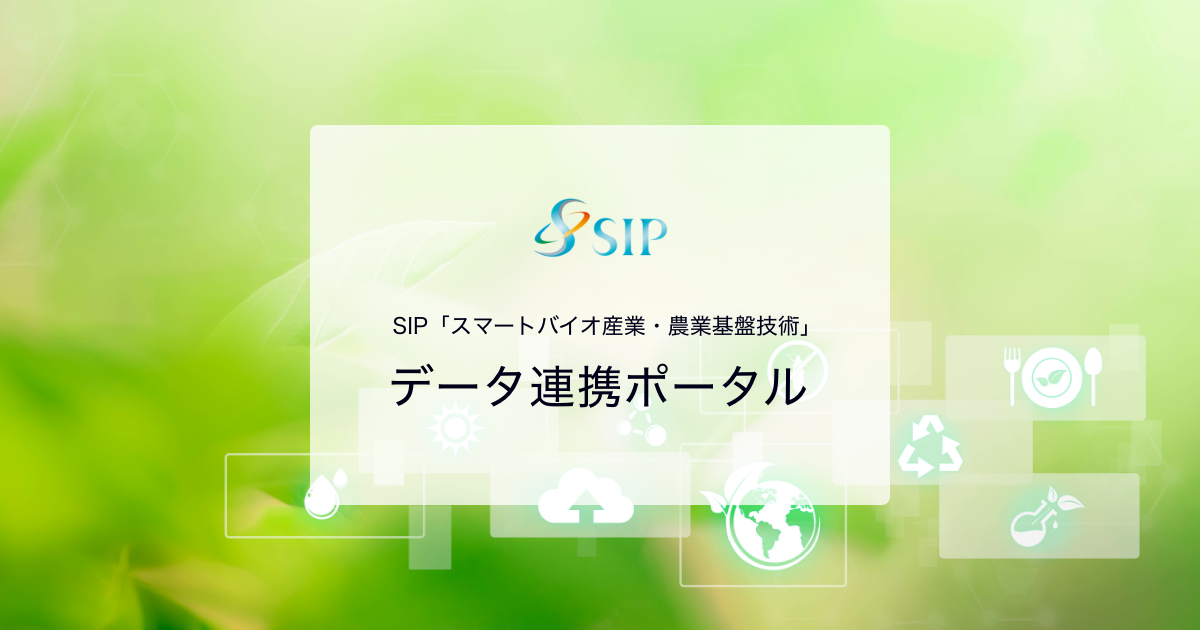
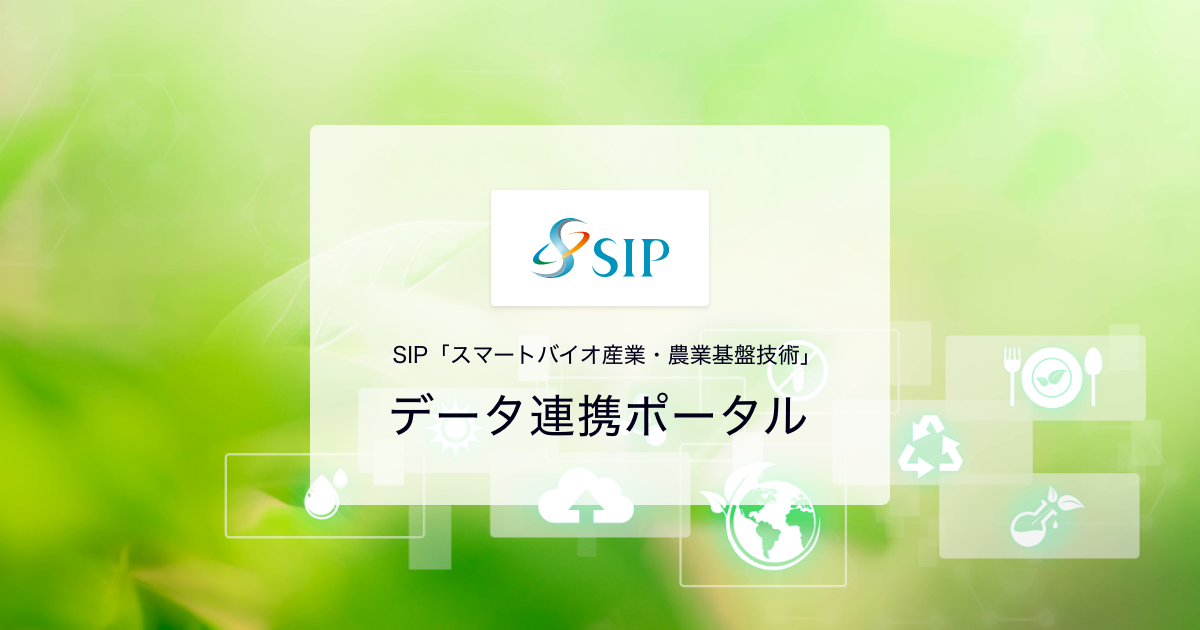
SIPロゴ画像を白背景にして差し替え

Changed region(s): [[0.3083, 0.3016, 0.6783, 0.6937]]

diff --git a/src/components/Footer/Footer.tsx b/src/components/Footer/Footer.tsx
@@ -2,7 +2,7 @@ import { css } from '@emotion/react'
 import Image from 'next/image'
 import Link from 'next/link'
 
-import logoPic from '../../../public/logo.png'
+import logoImg from '../../../public/logo.png'
 
 const footerStyle = css`
   background: var(--col-bk);
@@ -13,10 +13,14 @@ const footerLogoStyle = css`
   max-width: var(--inn1000);
   margin: 0 auto;
   display: flex;
-  align-items: flex-end;
+  align-items: center;
   @media (max-width: 680px) {
     align-items: flex-start;
   }
+`
+
+const logoStyle = css`
+  flex: 0 1 auto;
 `
 
 const titleStyle = css`
@@ -50,7 +54,9 @@ const Footer = () => {
   return (
     <footer css={footerStyle}>
       <div css={footerLogoStyle}>
-        <Image src={logoPic} alt="SIP" />
+        <div css={logoStyle}>
+          <Image src={logoImg} alt="SIP" />
+        </div>
         <div css={titleStyle}>
           SIP「スマートバイオ産業・農業基盤技術」データ連携ポータル
         </div>

diff --git a/src/components/Header/Header.tsx b/src/components/Header/Header.tsx
@@ -39,7 +39,7 @@ const logoStyle = css`
   max-width: ${logoSize.max};
   aspect-ratio: 1;
   background-color: var(--col-wh);
-  padding: 12px;
+  padding: 12px 0;
   border-radius: 0 0 10px 0;
   box-shadow: var(--shadow);
 `
